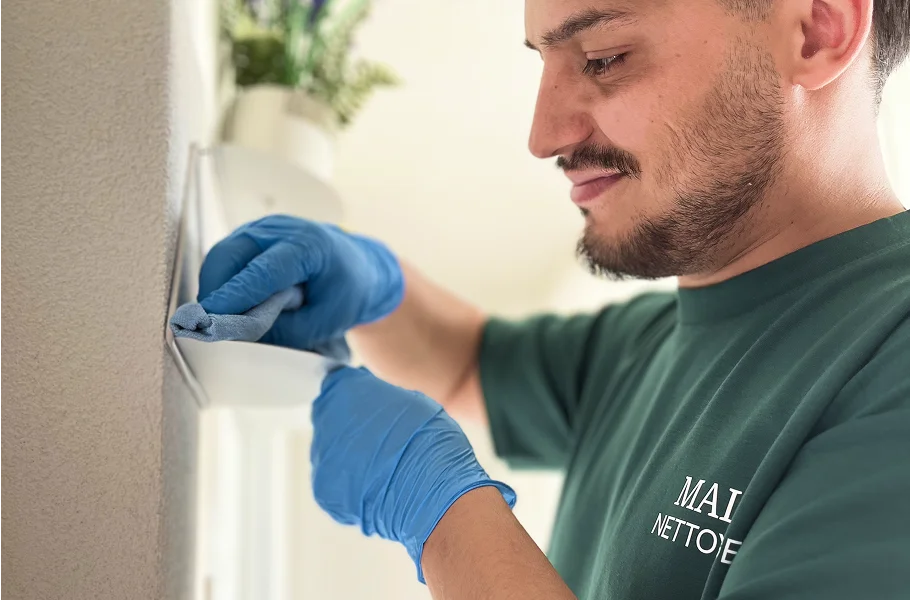
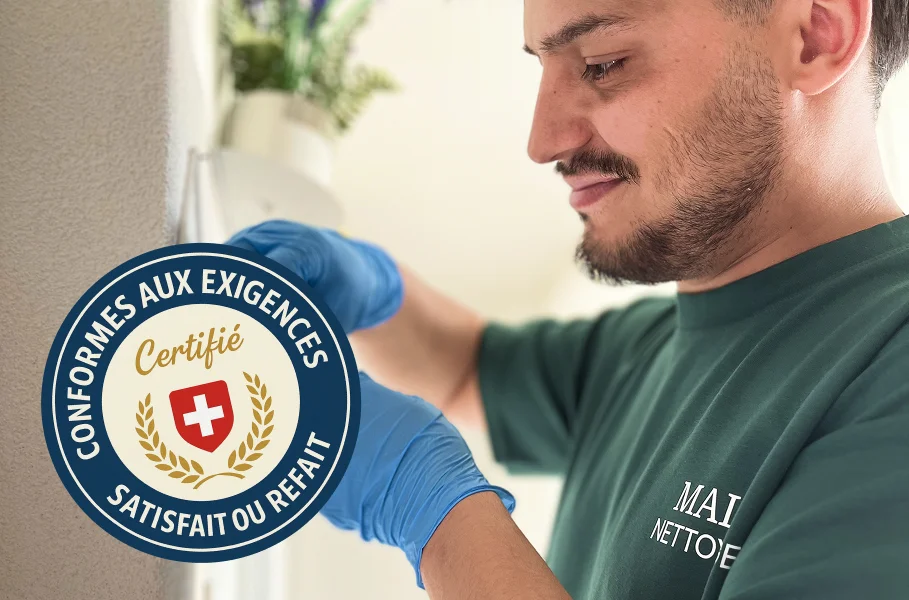
add badge img
ajotue badge

diff --git a/index.html b/index.html
@@ -116,10 +116,6 @@ src="https://www.facebook.com/tr?id=532778493168576&ev=PageView&noscript=1"
         <img src="img/nettoyage-de-fin-de-bail.webp" alt="Homme souriant portant un t-shirt Malo Nettoyage nettoyant une surface avec un chiffon microfibre" class="img-service">
         <h3>Nettoyage de fin de bail</h3>
         <p>Déménagez sereinement, nous respectons les exigences des gérances.</p>
-        <div class="garantie">
-          <p>💡 Conformes aux exigences des régies — satisfait ou refait</p>
-        </div>
-
       </div>
           <!-- Nettoyage régulier -->
       <div class="info-services">
